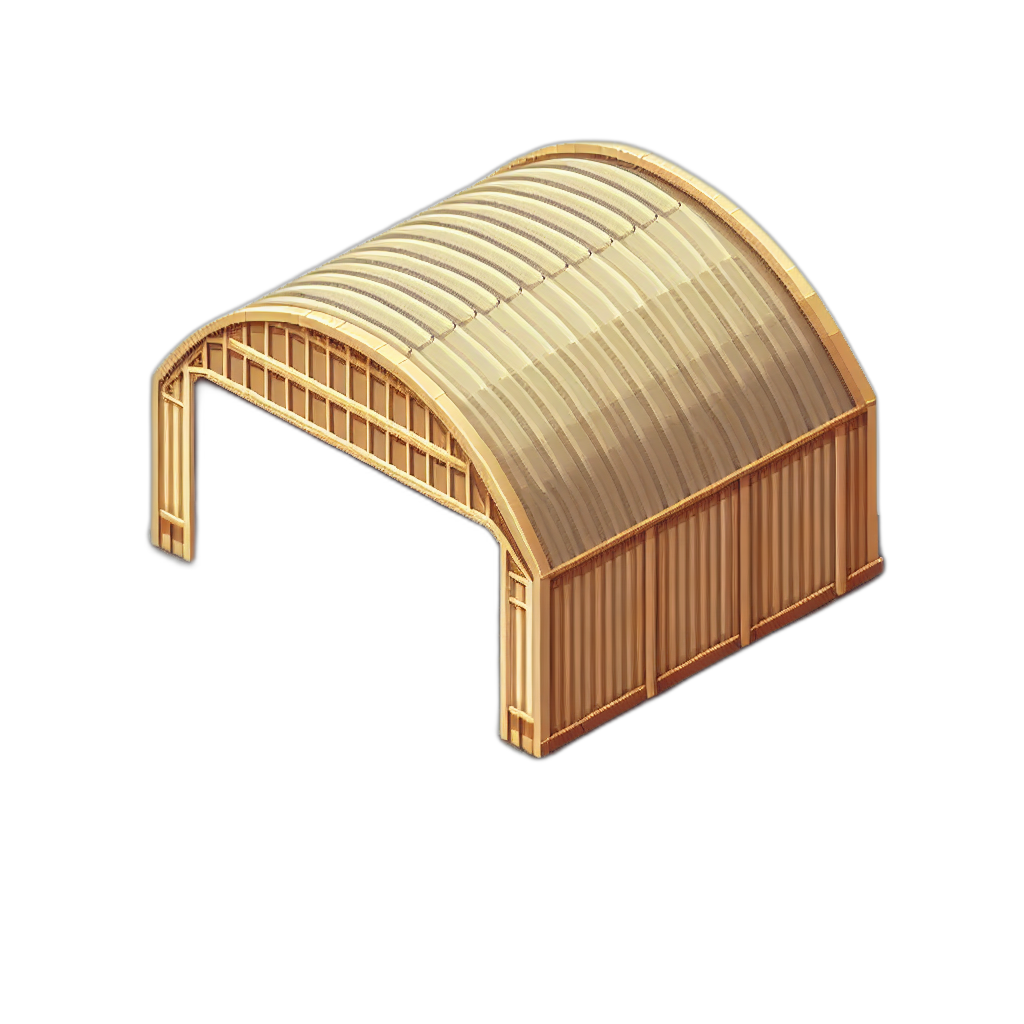
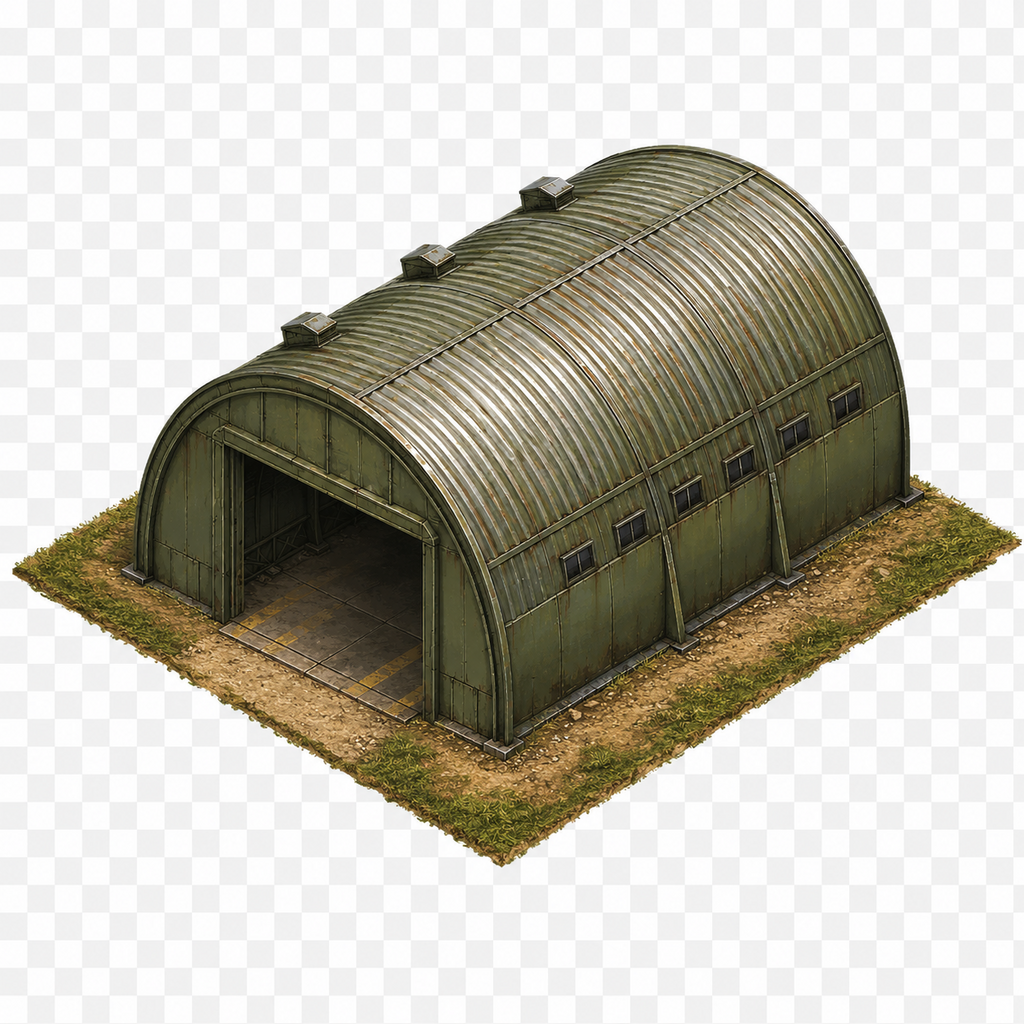
Asset: nový solídny hangár (nahradil priesvitný drôtený model)
Vygenerovaný maľovaný iso Quonset hangár (plechová klenba, otvorený vchod,
priehľadné pozadie) ladiaci so štýlom ostatných budov. keepTop 0.97->0.84
oreže zapečenú základňu ako pri ostatných budovách.

diff --git a/apps/web/src/components/BattlefieldStage.tsx b/apps/web/src/components/BattlefieldStage.tsx
@@ -45,7 +45,7 @@ const crispTexture = (texture: Texture) => {
 // baked-in ground base off the bottom of each 1024² asset so it sits cleanly on the terrain.
 const PAINTED_BUILDINGS: Array<{ tex: string; keepTop: number }> = [
   { tex: 'assets/generated/concrete_bunker.png', keepTop: 0.84 },
-  { tex: 'assets/generated/hangar_building.png', keepTop: 0.97 },
+  { tex: 'assets/generated/hangar_building.png', keepTop: 0.84 },
   { tex: 'assets/generated/watchtower.png', keepTop: 0.86 },
   { tex: 'assets/generated/ruins_building.png', keepTop: 0.80 }
 ];